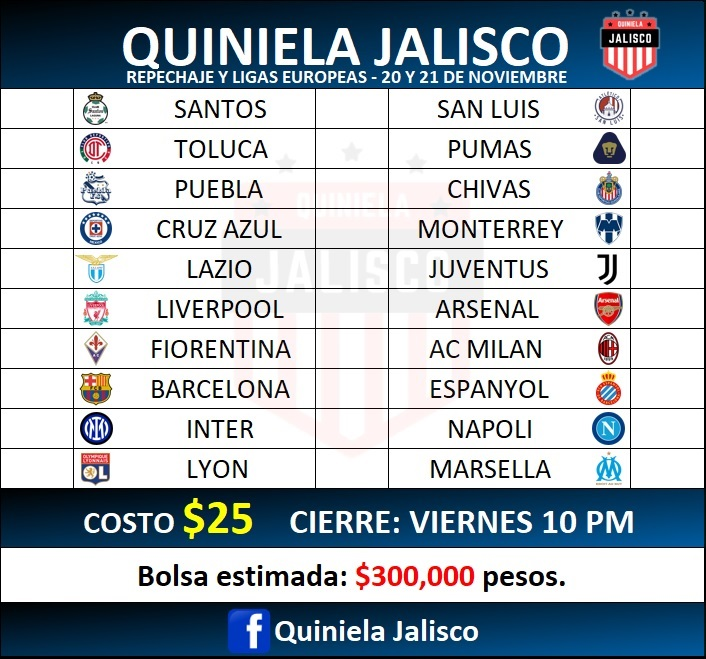
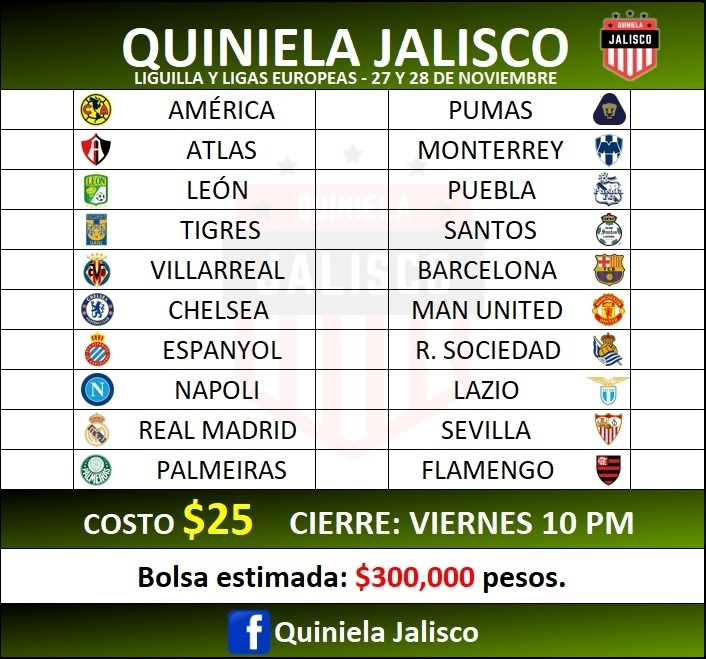
A21 Liguilla

diff --git a/10/styles10.css b/10/styles10.css
@@ -85,12 +85,12 @@ h1{
     background-color: teal;
     text-align: center;
     padding: 20px;
-    color: #fffc0c;
+    color: #ffffff;
     margin-top: 8%;
     border: solid 1px black;
     border-radius: 0 0 14px 14px;
-    background: -webkit-linear-gradient(0.04turn, rgb(0,0,0)  ,rgb(4,89,154) 80%);
-    background: linear-gradient(0.04turn, rgb(0,0,0)  ,rgb(4,89,154) 80%);
+    background: -webkit-linear-gradient(0.04turn, rgb(0,0,0)  ,rgb(100,147,9) 80%);
+    background: linear-gradient(0.04turn, rgb(0,0,0)  ,rgb(100,147,9) 80%);
     font-size: x-large;
 }
 
